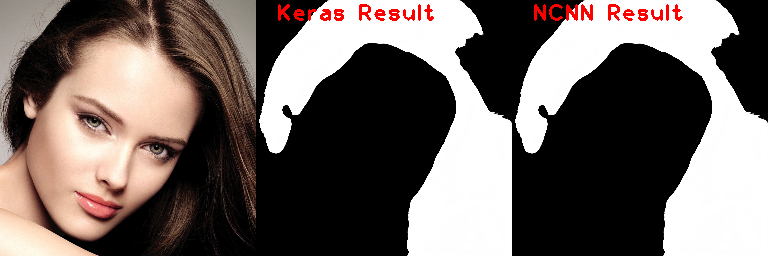
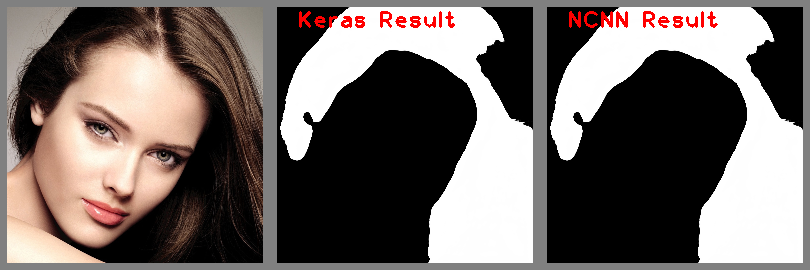
[~] Some README.md updates

diff --git a/model_zoo/segmentation/hair/model_000/demo.py b/model_zoo/segmentation/hair/model_000/demo.py
@@ -39,10 +39,14 @@ out_file_name = 'model_zoo/segmentation/hair/model_000/demo.png'
 print(f'MAE :: {np.abs(keras_out.flatten() - ncnn_out.flatten()).mean()}')
 print(f'Output saved {out_file_name}')
 
+frame_bgr_show = np.pad(frame_bgr_show, ((7, 7), (7, 7), (0, 0)), constant_values=128)
+
 keras_out_show = cv2.cvtColor((255*keras_out).astype(np.uint8), cv2.COLOR_GRAY2BGR)
 keras_out_show = cv2.putText(keras_out_show, 'Keras Result', (20, 20), cv2.FONT_HERSHEY_PLAIN, 1.5, (0, 0, 255), 2)
+keras_out_show = np.pad(keras_out_show, ((7, 7), (7, 7), (0, 0)), constant_values=128)
 ncnn_out_show = cv2.cvtColor((255*ncnn_out).astype(np.uint8), cv2.COLOR_GRAY2BGR)
 ncnn_out_show = cv2.putText(ncnn_out_show, 'NCNN Result', (20, 20), cv2.FONT_HERSHEY_PLAIN, 1.5, (0, 0, 255), 2)
+ncnn_out_show = np.pad(ncnn_out_show, ((7, 7), (7, 7), (0, 0)), constant_values=128)
 
 show_frame = np.hstack([frame_bgr_show, keras_out_show, ncnn_out_show])
 cv2.imwrite(out_file_name, show_frame)

diff --git a/README.md b/README.md
@@ -64,3 +64,6 @@ python3 keras2ncnn.py --model_path=model_zoo/segmentation/hair/model_000/CelebA_
 * [https://github.com/JungUnYun/Hair_segmentation]
 * [https://github.com/YawenSun9/deep-hair-segmentation]
 * [https://github.com/mostafa-shalaby84/hair_segmentation_matting]
+
+### Thanx
+* https://github.com/cvzakharchenko
